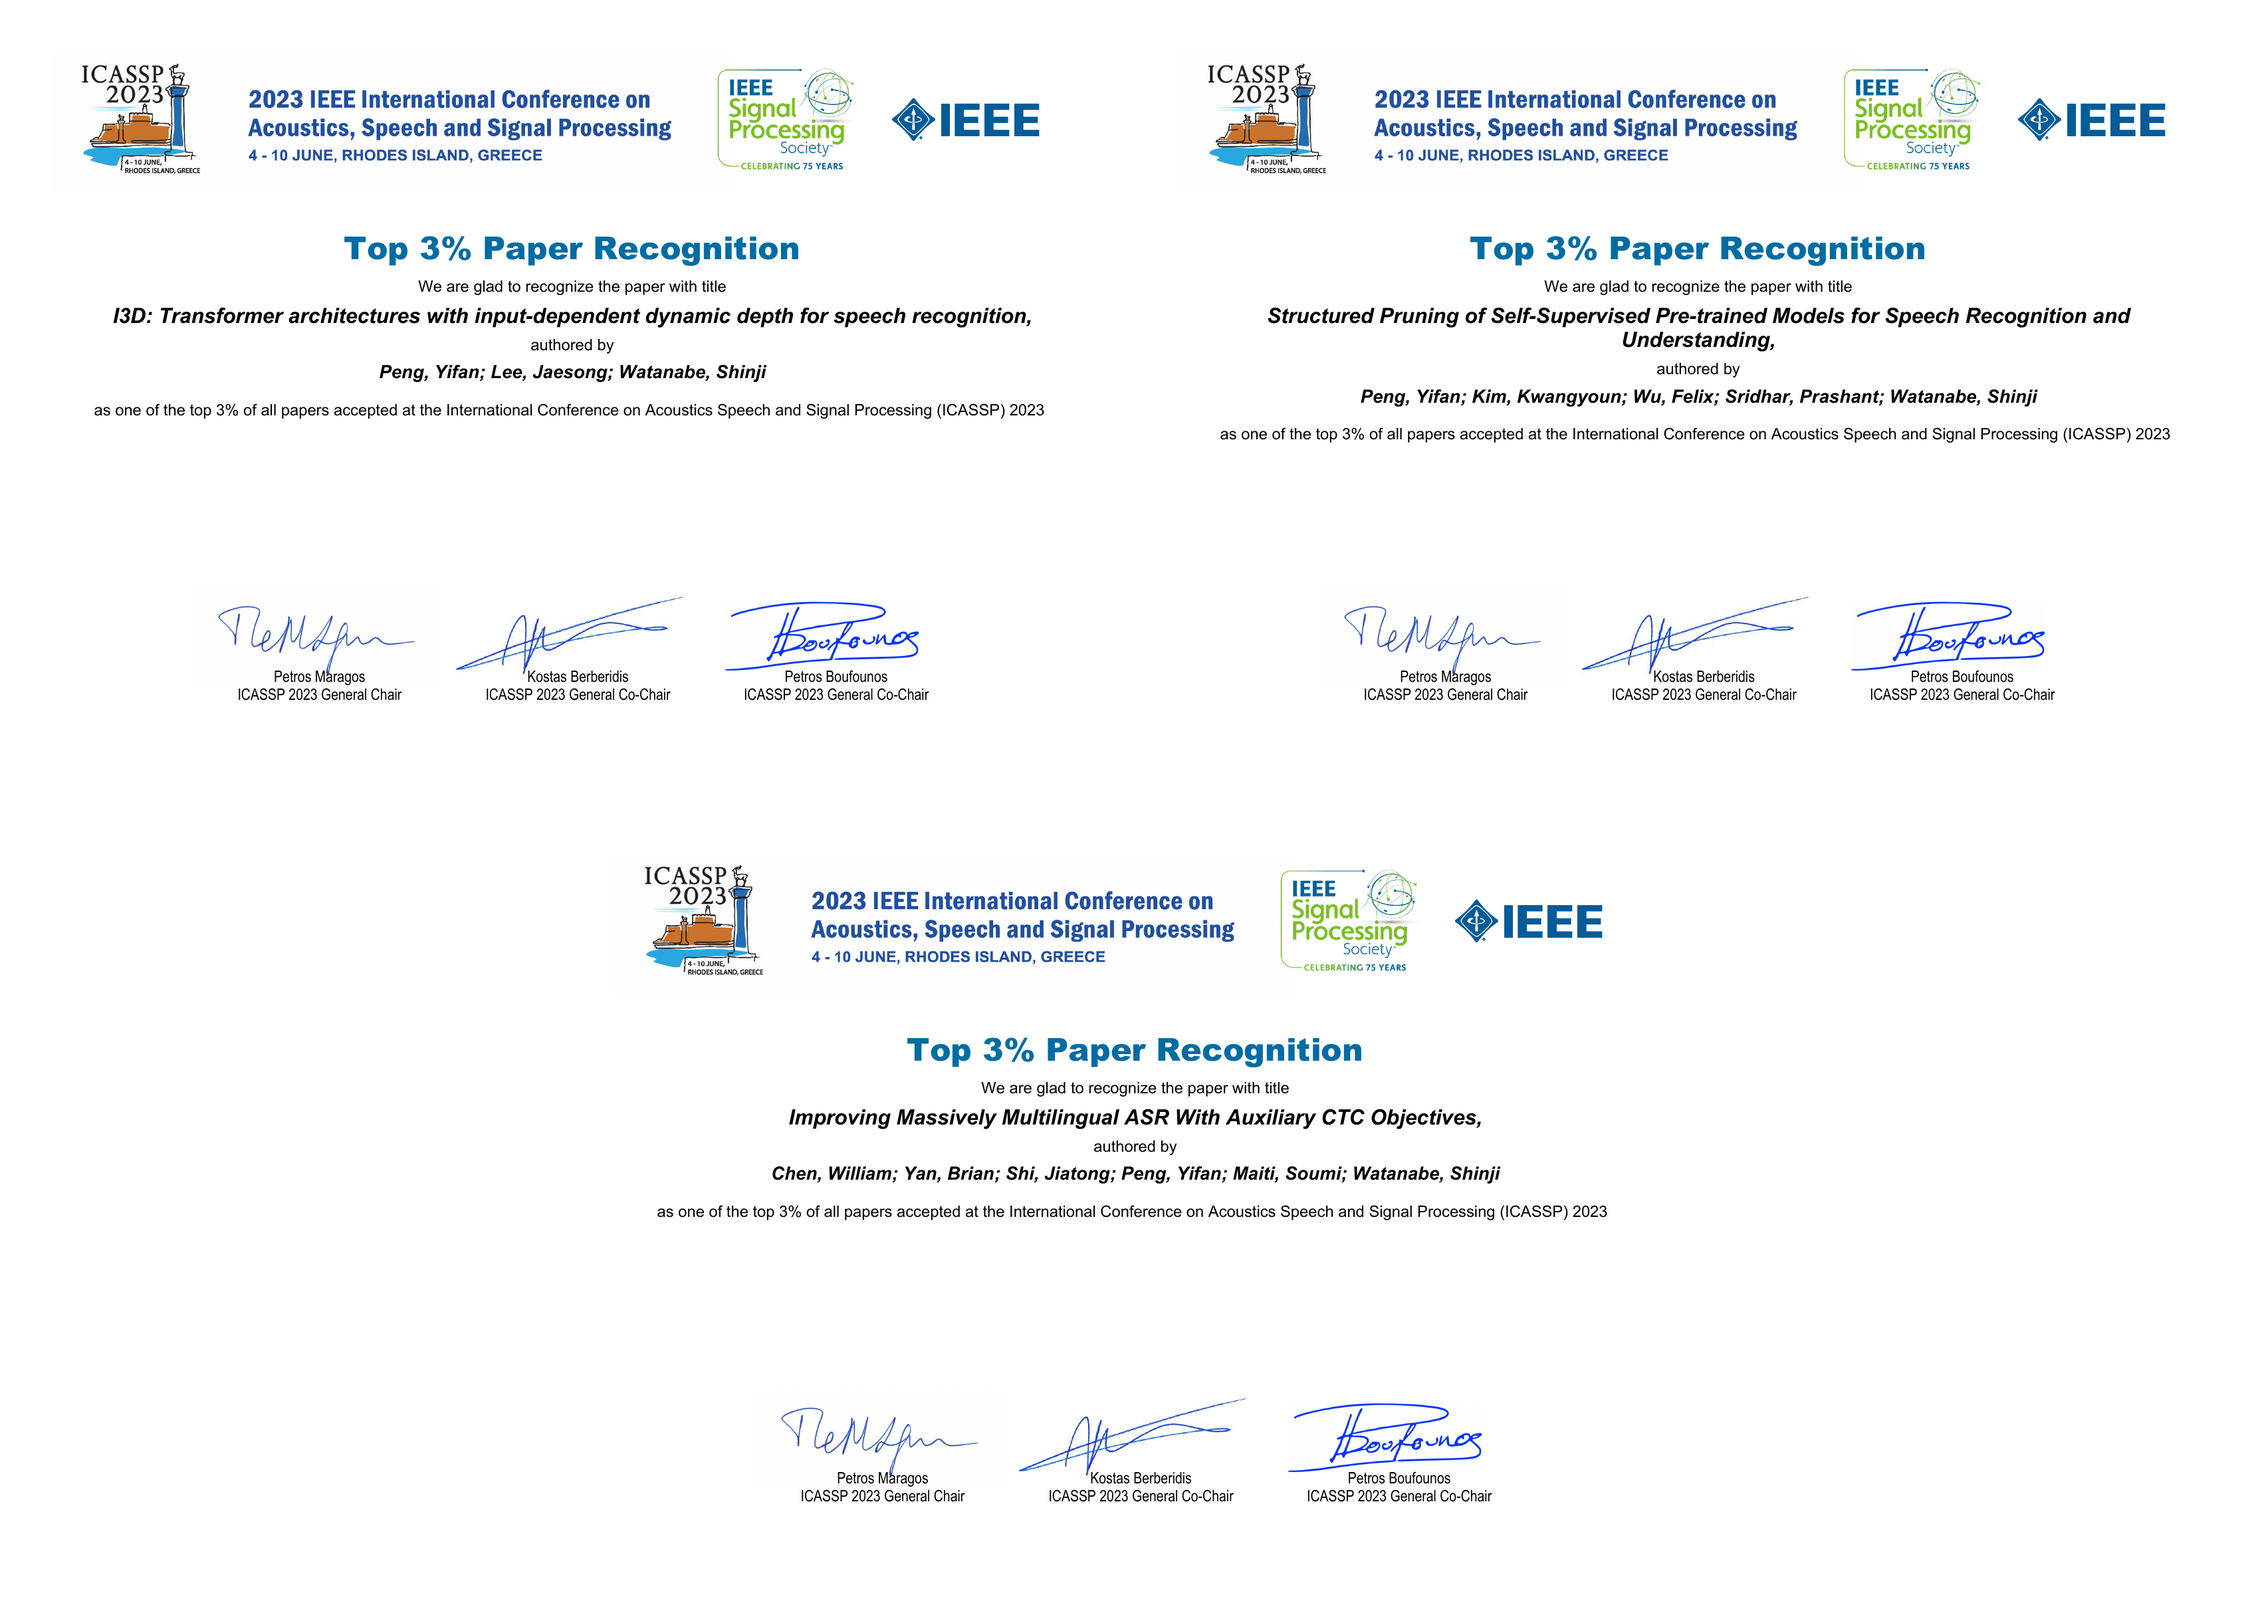
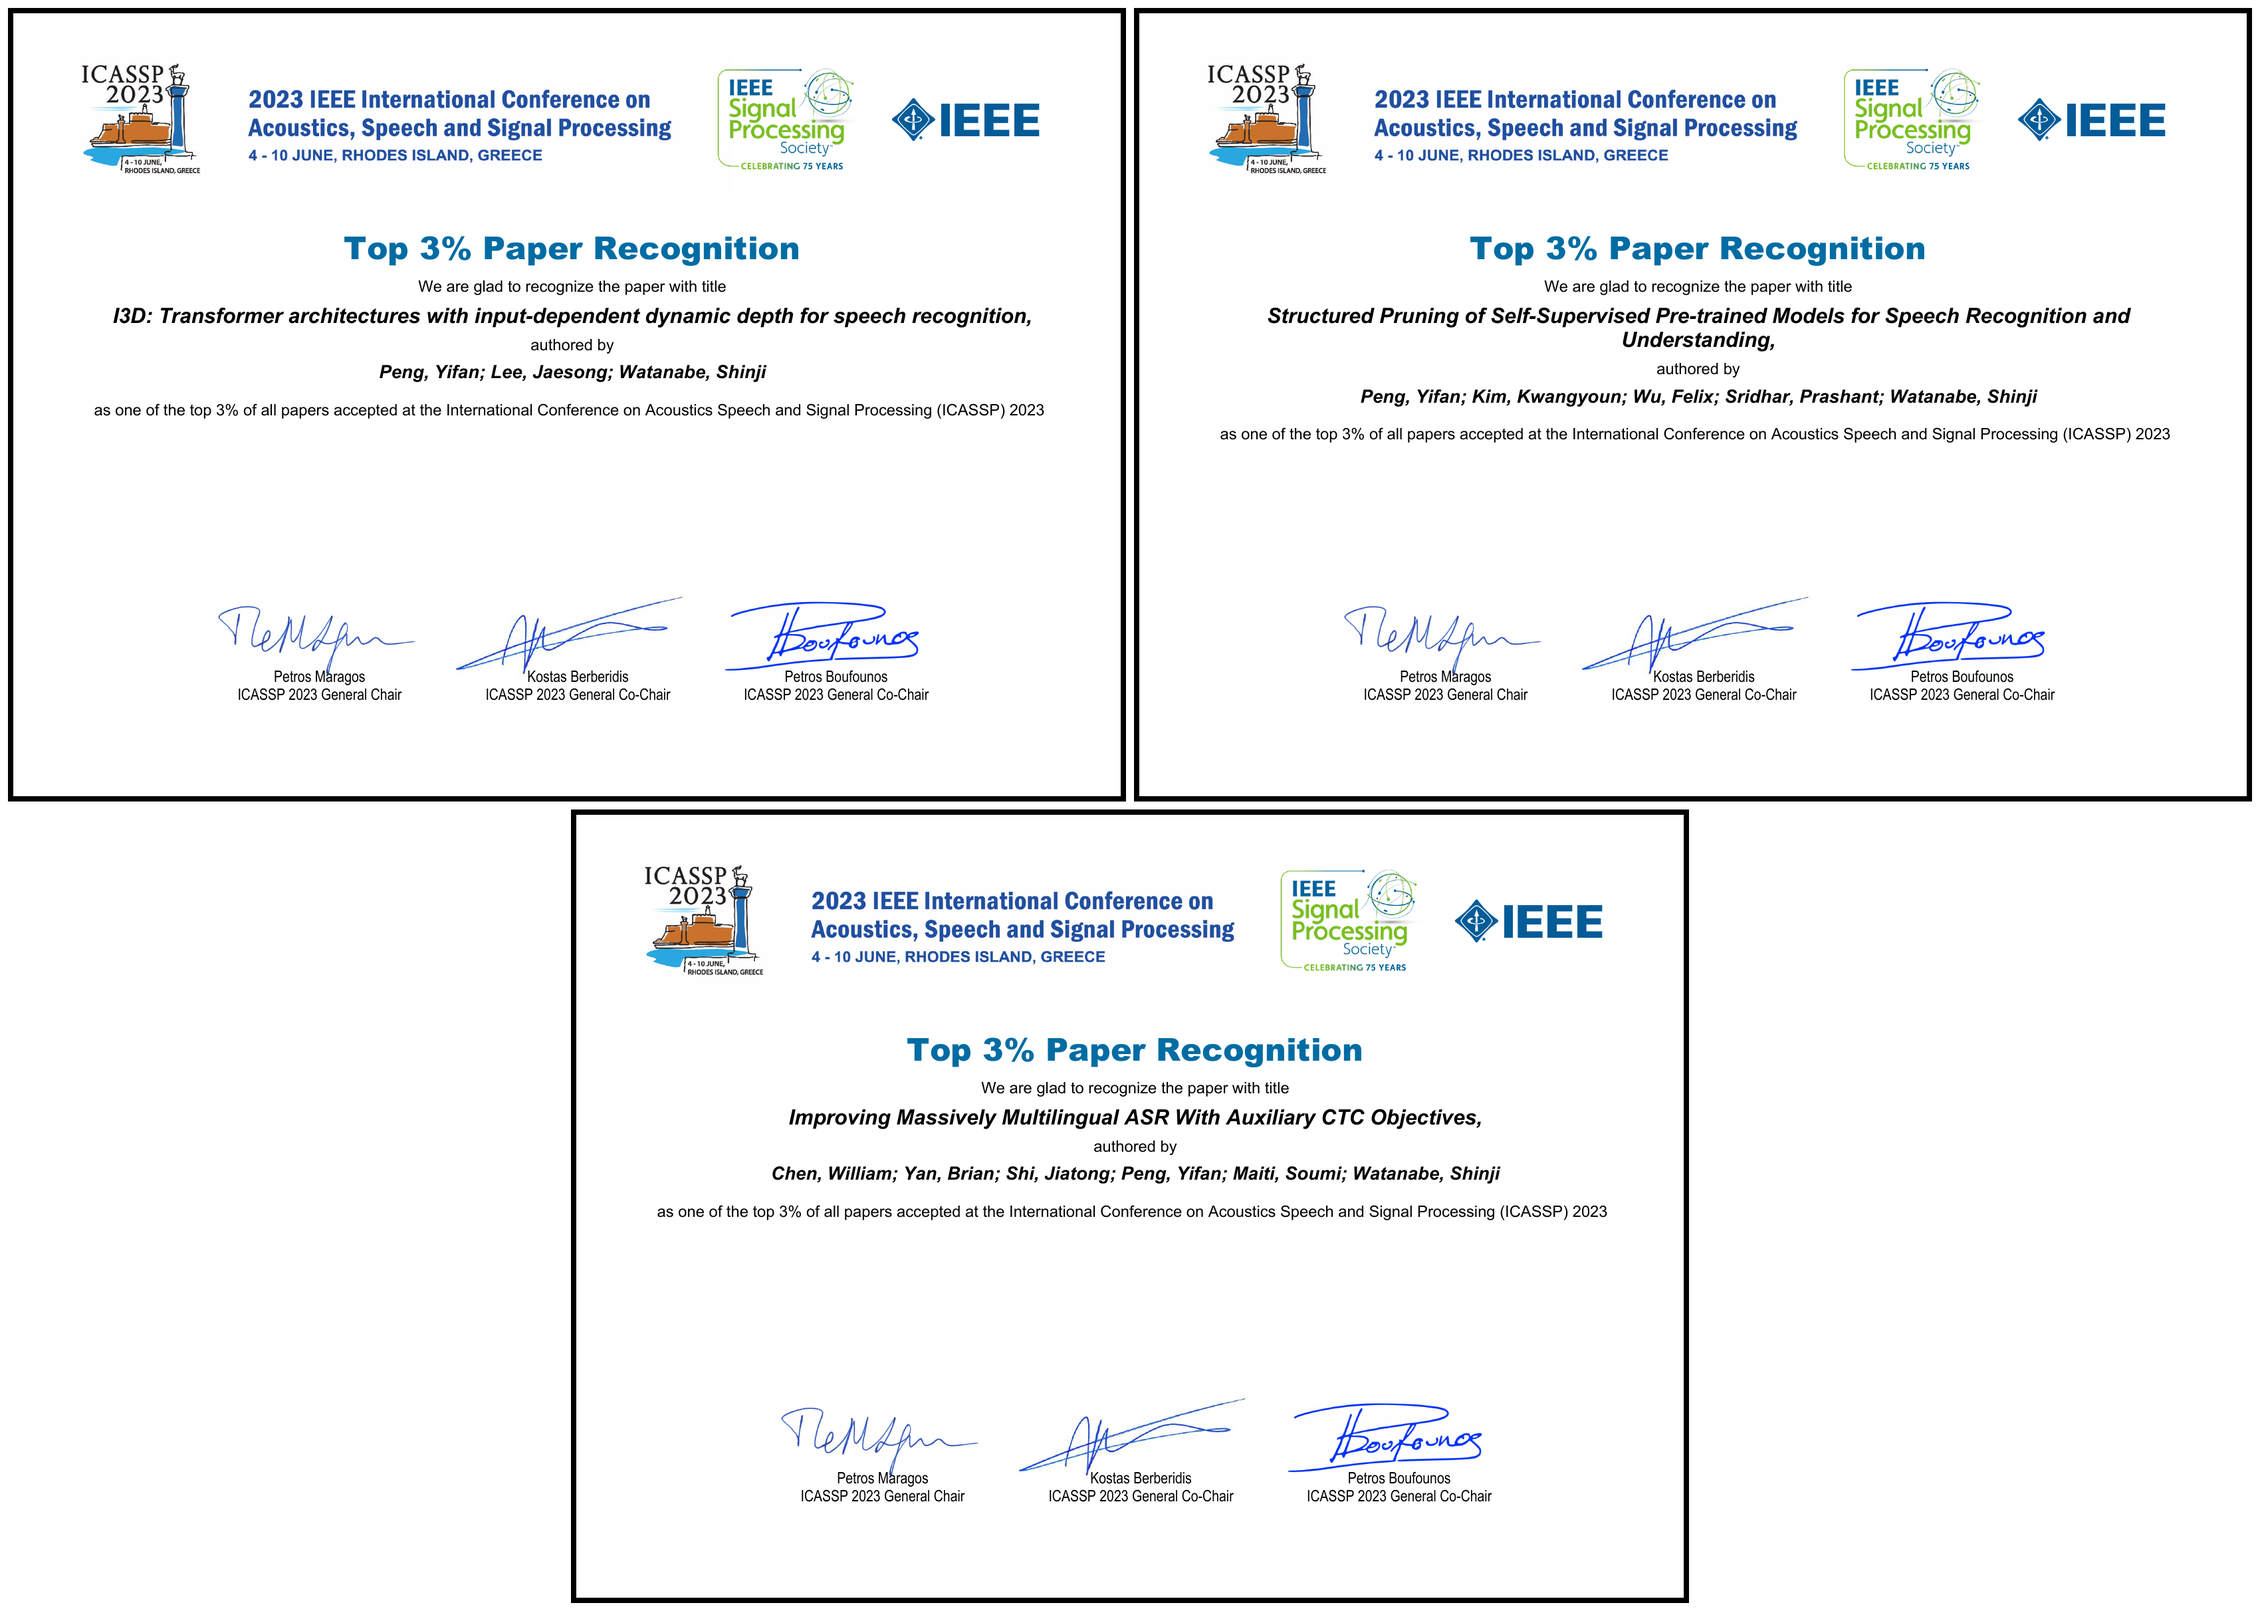
Improve award image previews

Changed region(s): [[0.0, 0.0, 0.9976, 0.0309], [0.2494, 0.9901, 0.7482, 1.0], [0.2494, 0.495, 0.7482, 0.526]]

diff --git a/_sass/_themes.scss b/_sass/_themes.scss
@@ -243,3 +243,18 @@ html[data-theme-setting="light"] {
     object-position: top center;
   }
 }
+
+body:has(.cv-award) .al-lightbox-overlay {
+  .al-lightbox-nav:disabled {
+    display: none;
+  }
+
+  // Clicks in the empty margins of the figure should reach the backdrop.
+  .al-lightbox-figure {
+    pointer-events: none;
+  }
+
+  .al-lightbox-image {
+    pointer-events: auto;
+  }
+}

diff --git a/_pages/cv.md b/_pages/cv.md
@@ -5,6 +5,8 @@ title: CV
 nav: true
 nav_order: 5
 cv_format: jsonresume
+images:
+  lightbox2: true
 description:
 toc:
   sidebar: left
